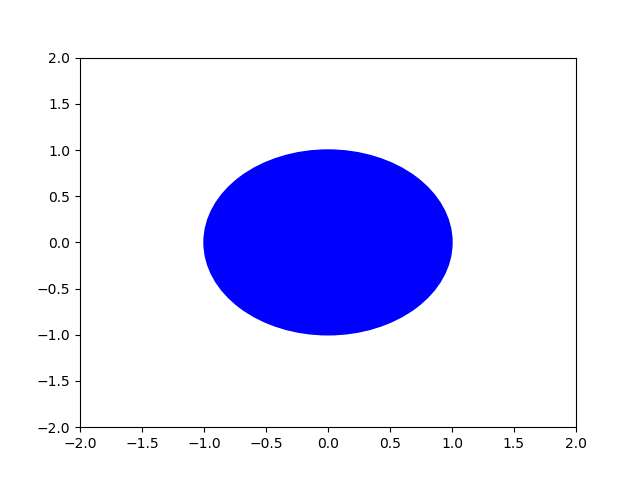
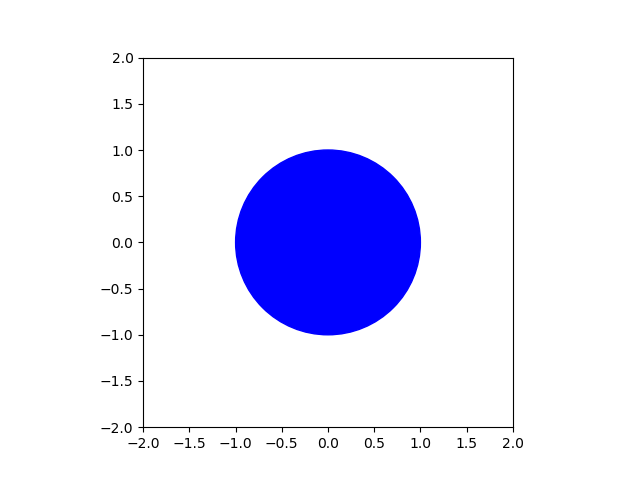
the circle is now round

diff --git a/test.py b/test.py
@@ -27,7 +27,7 @@ fig, ax = plt.subplots()
 
 ax.set_xlim((-2, 2))
 ax.set_ylim((-2, 2))
-
+ax.set_aspect('equal')
 ax.add_artist(bluecircle)
 
 fig.savefig('bluecircle.png')
